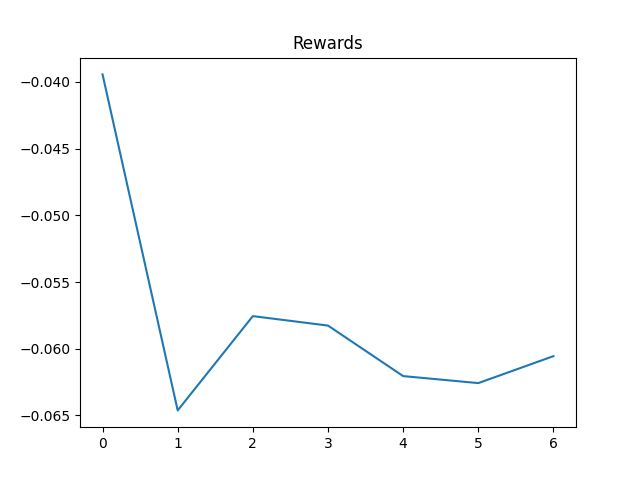
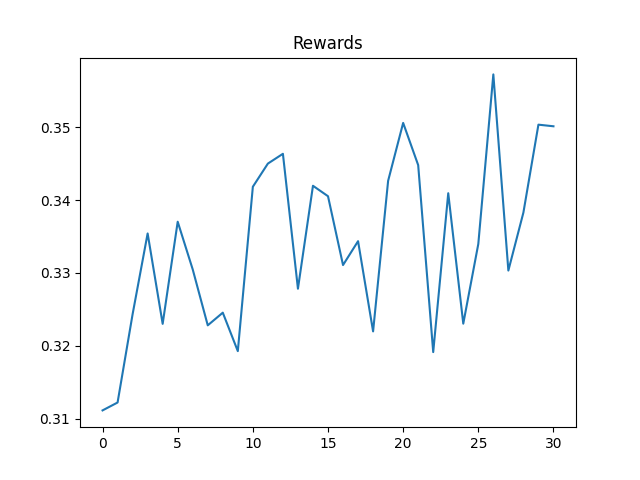
learning algo

diff --git a/env.py b/env.py
@@ -336,7 +336,7 @@ class Environment():
             i_initial, j_initial = self.metropolis.pick_point()
             i_final, j_final = self.metropolis.pick_point()
 
-            while euclidean((i_initial, j_initial),(i_final, j_final))<self.r_walking:
+            while euclidean((i_initial, j_initial),(i_final, j_final))<1.8*self.r_walking:
                 i_initial, j_initial = self.metropolis.pick_point()
 
             initial = (i_initial, j_initial)
@@ -348,34 +348,36 @@ class Environment():
 
                 dis_initial = self.metro.get_dis_closest_station(initial)
                 dis_final = self.metro.get_dis_closest_station(final)
-                max_dis = np.max([dis_initial, dis_final])
+                l_dis = [dis_initial, dis_final]
 
-                if max_dis>4*self.r_walking:
-                    reward+=0.05
-                elif max_dis>3*self.r_walking:
-                    reward+=0.1
-                elif max_dis>2*self.r_walking:
-                    reward+=0.2
-                else:
-                    reward+=0.3
+                for dis in l_dis:
+
+                    if dis>3*self.r_walking:
+                        reward+=0.05/2
+                    elif dis>2*self.r_walking:
+                        reward+=0.2/2
+                    elif dis>self.r_walking:
+                        reward+=0.3/2
+                    else:
+                        reward+=0.45/2
 
             else:
                 #x = (metro_time-walking_time)/walking_time
                 #if x<=1/4:
                     #reward+= -(4/9)*x+1/9
                 
-                if metro_time*9<walking_time:
-                    reward+=1.5
-                elif metro_time*8<walking_time:
-                    reward+=1.2
-                elif metro_time*7<walking_time:
+                if metro_time*2.5<walking_time:
                     reward+=1
-                elif metro_time*6<walking_time:
-                    reward+=0.8
-                elif metro_time*5<walking_time:
+                elif metro_time*2<walking_time:
+                    reward+=0.95
+                elif metro_time*1.6<walking_time:
+                    reward+=0.9
+                elif metro_time*1.3<walking_time:
+                    reward+=0.85
+                elif metro_time<walking_time:
                     reward+=0.6
                 else:
-                    reward+=0.3
+                    reward+=0.5
 
         return reward/self.n_simulations
 

diff --git a/new_coord.py b/new_coord.py
@@ -97,7 +97,7 @@ class Coordinator:
          
         ###############
         #Now sample from REPLAY BUFFER:
-        samples = self.buffer.sample(256)
+        samples = self.buffer.sample(128)
 
         for sample in samples:
 
@@ -301,13 +301,13 @@ class Coordinator:
 metro_params={
 
     #Distances
-    "speed_metro" : 10,
+    "speed_metro" : 15,
     "speed_change" : 1,
     "speed_walk" : 1,
 
     #Times
-    "waiting_for_train": 0, #2
-    "waiting_when_stopping": 0, #0.3
+    "waiting_for_train": 1, #2
+    "waiting_when_stopping": 0.5, #0.3
 
     "max_connected" : 2, # A change station has at most 2 connections (CANNOT BE 0)
 
@@ -337,7 +337,7 @@ learning_var={
 allowed_per_play = 7
 total_suggerable = 20
 
-coord = Coordinator(50, 1000, (0,0), city_params, (0,0), metro_params, 200000, learning_var, 12, allowed_per_play , total_suggerable)
+coord = Coordinator(50, 500, (0,0), city_params, (0,0), metro_params, 200000, learning_var, 12, allowed_per_play , total_suggerable)
 
 
 all = []

diff --git a/metro_env.py b/metro_env.py
@@ -284,7 +284,7 @@ class Stations_network:
 
                             
                             if ((station.location, station.line), (co.location, co.line)) not in list(self.E.keys()) and ((co.location, co.line), (station.location, station.line)) not in list(self.E.keys()):
-                                self.E[((station.location, station.line), (co.location, co.line))]=(2+euclidean(station.location, co.location))/self.speed_change
+                                self.E[((station.location, station.line), (co.location, co.line))]=(2+euclidean(station.location, co.location))/self.speed_change + self.waiting_for_train
 
                     station = station.next
 
@@ -294,8 +294,8 @@ class Stations_network:
                     self.E[k]=neighbours[i][k]
 
 
-            #if np.random.uniform(0,1)<0.0001:
-            if 1==0:
+            if np.random.uniform(0,1)<0.0001:
+            #if 1==0:
 
                 print(self.display(False))
                 time.sleep(1)
